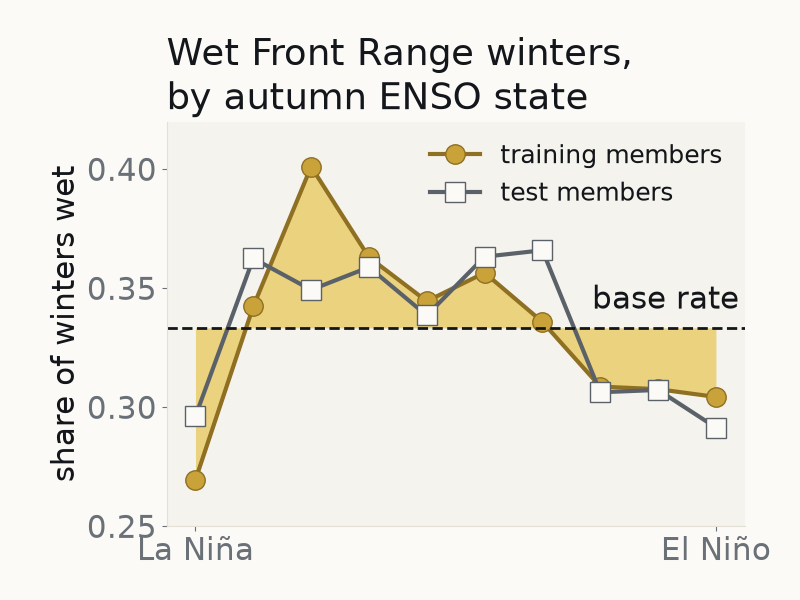
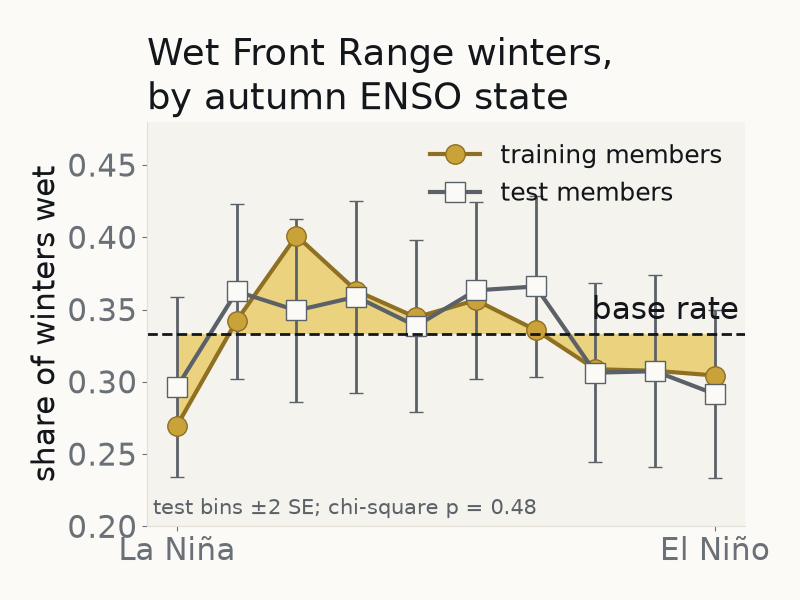
Round N fixes: lead time, the La Nina season, an honest thumbnail
- ch1: the two briefings date from mid-September (Boulder, PDF created
  2020-09-18) and mid-October (Pueblo, last modified 2025-10-16), so an
  earlier input would be JJA for Boulder's and JAS for Pueblo's; ASO is
  not complete until 31 October and served neither.
- ch1, ch2, ch6 limit 4, ch7: NWS Boulder states the La Nina-dry sign for
  southwest and eastern Colorado through "the entire cold season", and
  stresses fall and spring only for the northwest-jet pattern. DJF tests
  that half in its stated season and holds only February of the
  El Nino-wet half; "both halves only in part" overstated it.
- thumbnail: the test line carries +/-2 binomial standard errors and its
  chi-square p, computed in make_thumbnail.py, so the card no longer
  shows a replicated shape the test does not support; README alt text
  follows.
- ch6: the extremes' direction comes from the decile table, not the
  chi-square; the warm-decile reading names NWS's late winter and spring
  and Stagge's strong El Nino; the neural network's 2026-10-29 scoring
  in the opening.
- ch7: Rodgers compares DJF 1960-1989 with 2070-2099.
- ch3: Unidata's split described, not quoted; data/README notes the
  protocol's date omits the 2026-10-29 scoring.

Claude-Session: https://claude.ai/code/session_01Xf6pijr3h54eeP7cW7J9CC

Changed region(s): [[0.0312, 0.24, 0.9375, 0.93], [0.1875, 0.06, 0.7812, 0.21], [0.8438, 0.9, 0.9688, 0.93]]

diff --git a/thumbnails/make_thumbnail.py b/thumbnails/make_thumbnail.py
@@ -5,7 +5,10 @@ The picture is the cookbook's own target: the share of wet winters in each
 tenth of the autumn Niño 3.4 anomaly (training-member decile edges), for the
 training members and the held-out test members, with the forced response
 removed and the wet threshold fitted on training members, as chapters 2 and
-6 compute it (lensml.setup, lensml.wet_by_bin). Minimal text, sized to be
+6 compute it (lensml.setup, lensml.wet_by_bin). The test line carries its
+±2 binomial standard errors and its chi-square p (chapter 6's test line), so
+the card does not show a replicated shape that the test does not support.
+Minimal text, sized to be
 read on a gallery card; the data citation lives in the README and
 notebooks/how-to-cite.md, not on the image.
 
@@ -40,7 +43,20 @@ def main():
     fig.patch.set_facecolor('#FBFAF6')
     ax.set_facecolor('#F5F3ED')  # the house canvas inside the axes
     for label, (line, face, marker, rows) in lines.items():
-        rate = lensml.wet_by_bin(rows, edges)[0]['wet_rate']
+        table, _, p, _ = lensml.wet_by_bin(rows, edges)
+        rate = table['wet_rate']
+        if rows is state.test:
+            test_p = p
+            ax.errorbar(  # ±2 SE: the cookbook's own "beyond 2 SE" line
+                range(1, 11),
+                rate.values,
+                yerr=2 * table['binomial_se'].values,
+                fmt='none',
+                ecolor=line,
+                elinewidth=2,
+                capsize=5,
+                zorder=1,
+            )
         ax.plot(
             range(1, 11),
             rate.values,
@@ -57,7 +73,16 @@ def main():
     )
     ax.axhline(base, color='#13161A', ls='--', lw=2)
     ax.text(10.4, base + 0.005, 'base rate', ha='right', va='bottom')
-    ax.set_ylim(0.25, 0.42)
+    ax.text(  # computed above from the test rows, never typed
+        0.6,
+        0.205,
+        f'test bins ±2 SE; chi-square p = {test_p:.2f}',
+        ha='left',
+        va='bottom',
+        fontsize=15,
+        color='#5B6168',
+    )
+    ax.set_ylim(0.20, 0.48)
     ax.set_xlim(0.5, 10.5)
     ax.set_xticks([1, 10], ['La Niña', 'El Niño'])
     ax.set_ylabel('share of winters wet')

diff --git a/notebooks/data/README.md b/notebooks/data/README.md
@@ -52,6 +52,6 @@ the header contains `FUTURE_RECORD` (experiment, season, window, both boxes, aut
 `FUTURE_ACCESS_DATE` in `lensml.py`. `ssp370-test-protocol.md`, beside it, is the protocol chapter 7 follows, verbatim.
 Chapter 7 is the only reader, under a protocol written, by the author's account, before the file was derived (self-attested; no external timestamp).
 The protocol is kept exactly as written, so two of its phrases predate the published text: its title and chapter 7's printed rule say
-"pre-registered", meaning fixed in advance by the author, not lodged with a registry; and its "seven limits" refer to a draft of chapter 6 that day, not in the repository history (chapter 6 now lists eight). Its second line (`Glen chose "2"`) is the author's note of choosing a fresh test; the "2" numbers an option in a list that is not in this repository. Chapter 7 compares the file's SHA-256 with its hash as committed
+"pre-registered", meaning fixed in advance by the author, not lodged with a registry; and its "seven limits" refer to a draft of chapter 6 that day, not in the repository history (chapter 6 now lists eight). Its second line (`Glen chose "2"`) is the author's note of choosing a fresh test; the "2" numbers an option in a list that is not in this repository. Its "scored on 2026-10-20" omits the neural network's second scoring of the test members, on 2026-10-29 (chapter 6). Chapter 7 compares the file's SHA-256 with its hash as committed
 with the test (851d900), so any edit, even a typo fix, shows there as
 "differs"; an amendment belongs in a new, dated file beside it.

diff --git a/README.md b/README.md
@@ -1,7 +1,7 @@
 # CESM2 LENS ML Readiness Cookbook
 
-<img src="thumbnails/thumbnail.png" alt="Wet-winter share by tenth of autumn Niño 3.4, training and test members, against the training base rate: the training line lower at both extremes, the test line following it loosely (its bins are
-not distinguishable from chance); the training peak in the third tenth does not repeat" width="300"/>
+<img src="thumbnails/thumbnail.png" alt="Wet-winter share by tenth of autumn Niño 3.4, training and test members, against the training base rate: the training line lower at both extremes, the test line following it loosely, every test bin's ±2 standard-error bar
+reaching the base rate (chi-square p = 0.48); the training peak in the third tenth does not repeat" width="300"/>
 
 [![Launch this cookbook on mybinder.org](https://mybinder.org/badge_logo.svg)](https://mybinder.org/v2/gh/glenbuchanan/cesm2-lens-ml-readiness-cookbook/main?labpath=notebooks)
 
